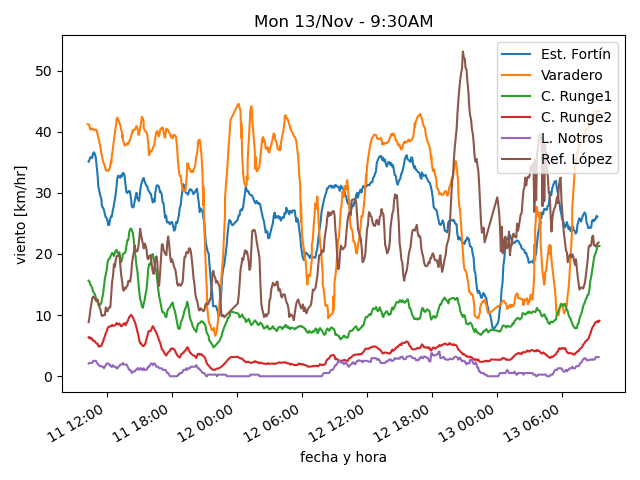
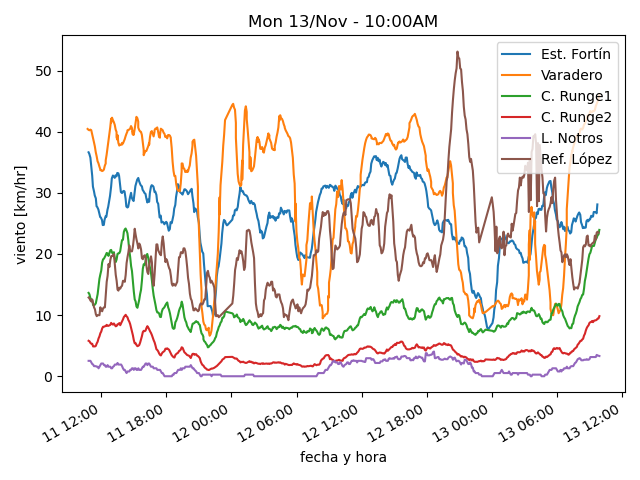
actualiza datos

diff --git a/estaciones/estacion3.html b/estaciones/estacion3.html
@@ -18,32 +18,32 @@
     </tr>
     <tr>
      <td class="stats_data">
-      9:24AM
+      9:54AM
      </td>
     </tr>
     <tr>
      <td class="stats_data">
-      5.6⁰C
+      6.0⁰C
      </td>
     </tr>
     <tr>
      <td class="stats_data">
-      1.6⁰C
+      2.0⁰C
      </td>
     </tr>
     <tr>
      <td class="stats_data">
-      75.7%
+      75.3%
      </td>
     </tr>
     <tr>
      <td class="stats_data">
-      1004.64hPa
+      1004.44hPa
      </td>
     </tr>
     <tr>
      <td class="stats_data">
-      14.1/23.1 km/hr NW
+      17.1/26.4 km/hr NNW
      </td>
     </tr>
     <tr>
@@ -53,12 +53,12 @@
     </tr>
     <tr>
      <td class="stats_data">
-      6.0
+      8.0
      </td>
     </tr>
     <tr>
      <td class="stats_data">
-      561.3 W/m²
+      783.8 W/m²
      </td>
     </tr>
    </tbody>

diff --git a/estaciones/estacion2.html b/estaciones/estacion2.html
@@ -18,32 +18,32 @@
     </tr>
     <tr>
      <td class="stats_data">
-      9:24AM
+      9:54AM
      </td>
     </tr>
     <tr>
      <td class="stats_data">
-      6.5⁰C
+      6.4⁰C
      </td>
     </tr>
     <tr>
      <td class="stats_data">
-      3.3⁰C
+      3.1⁰C
      </td>
     </tr>
     <tr>
      <td class="stats_data">
-      80.1%
+      79.4%
      </td>
     </tr>
     <tr>
      <td class="stats_data">
-      1020.01hPa
+      1019.81hPa
      </td>
     </tr>
     <tr>
      <td class="stats_data">
-      36.6/43.9 km/hr NW
+      39.9/47.1 km/hr NW
      </td>
     </tr>
     <tr>
@@ -53,12 +53,12 @@
     </tr>
     <tr>
      <td class="stats_data">
-      4.0
+      5.0
      </td>
     </tr>
     <tr>
      <td class="stats_data">
-      503.6 W/m²
+      594.7 W/m²
      </td>
     </tr>
    </tbody>

diff --git a/estaciones/estacion4.html b/estaciones/estacion4.html
@@ -18,32 +18,32 @@
     </tr>
     <tr>
      <td class="stats_data">
-      9:24AM
+      9:54AM
      </td>
     </tr>
     <tr>
      <td class="stats_data">
-      6.5⁰C
+      7.3⁰C
      </td>
     </tr>
     <tr>
      <td class="stats_data">
-      1.1⁰C
+      1.6⁰C
      </td>
     </tr>
     <tr>
      <td class="stats_data">
-      68.5%
+      67.2%
      </td>
     </tr>
     <tr>
      <td class="stats_data">
-      1013.34hPa
+      1013.24hPa
      </td>
     </tr>
     <tr>
      <td class="stats_data">
-      6.5/10.2 km/hr SW
+      7.3/11.8 km/hr SW
      </td>
     </tr>
     <tr>
@@ -53,12 +53,12 @@
     </tr>
     <tr>
      <td class="stats_data">
-      4.0
+      6.0
      </td>
     </tr>
     <tr>
      <td class="stats_data">
-      501.0 W/m²
+      616.6 W/m²
      </td>
     </tr>
    </tbody>

diff --git a/estaciones/estacion1.html b/estaciones/estacion1.html
@@ -18,32 +18,32 @@
     </tr>
     <tr>
      <td class="stats_data">
-      9:13AM
+      9:43AM
      </td>
     </tr>
     <tr>
      <td class="stats_data">
-      7.4⁰C
+      8.2⁰C
      </td>
     </tr>
     <tr>
      <td class="stats_data">
-      -0.1⁰C
+      0.2⁰C
      </td>
     </tr>
     <tr>
      <td class="stats_data">
-      59.0%
+      57.0%
      </td>
     </tr>
     <tr>
      <td class="stats_data">
-      1015.24hPa
+      1014.9hPa
      </td>
     </tr>
     <tr>
      <td class="stats_data">
-      17.6/19.3 km/hr WSW
+      17.7/39.4 km/hr W
      </td>
     </tr>
     <tr>
@@ -58,7 +58,7 @@
     </tr>
     <tr>
      <td class="stats_data">
-      596.0 W/m²
+      733.0 W/m²
      </td>
     </tr>
    </tbody>

diff --git a/estaciones/estacion6.html b/estaciones/estacion6.html
@@ -18,17 +18,17 @@
     </tr>
     <tr>
      <td class="stats_data">
-      9:20AM
+      9:50AM
      </td>
     </tr>
     <tr>
      <td class="stats_data">
-      -1.1⁰C
+      -0.7⁰C
      </td>
     </tr>
     <tr>
      <td class="stats_data">
-      -2.8⁰C
+      -2.4⁰C
      </td>
     </tr>
     <tr>
@@ -38,12 +38,12 @@
     </tr>
     <tr>
      <td class="stats_data">
-      1018.08hPa
+      1017.75hPa
      </td>
     </tr>
     <tr>
      <td class="stats_data">
-      11.3/19.3 km/hr SSE
+      8.0/22.5 km/hr NE
      </td>
     </tr>
     <tr>
@@ -58,7 +58,7 @@
     </tr>
     <tr>
      <td class="stats_data">
-      911.0 W/m²
+      909.0 W/m²
      </td>
     </tr>
    </tbody>

diff --git a/estaciones/estacion5.html b/estaciones/estacion5.html
@@ -18,17 +18,17 @@
     </tr>
     <tr>
      <td class="stats_data">
-      9:20AM
+      9:55AM
      </td>
     </tr>
     <tr>
      <td class="stats_data">
-      7.7⁰C
+      8.2⁰C
      </td>
     </tr>
     <tr>
      <td class="stats_data">
-      1.7⁰C
+      2.0⁰C
      </td>
     </tr>
     <tr>
@@ -38,12 +38,12 @@
     </tr>
     <tr>
      <td class="stats_data">
-      1016.19hPa
+      1015.95hPa
      </td>
     </tr>
     <tr>
      <td class="stats_data">
-      0.0/3.5 km/hr N
+      0.0/2.6 km/hr N
      </td>
     </tr>
     <tr>
